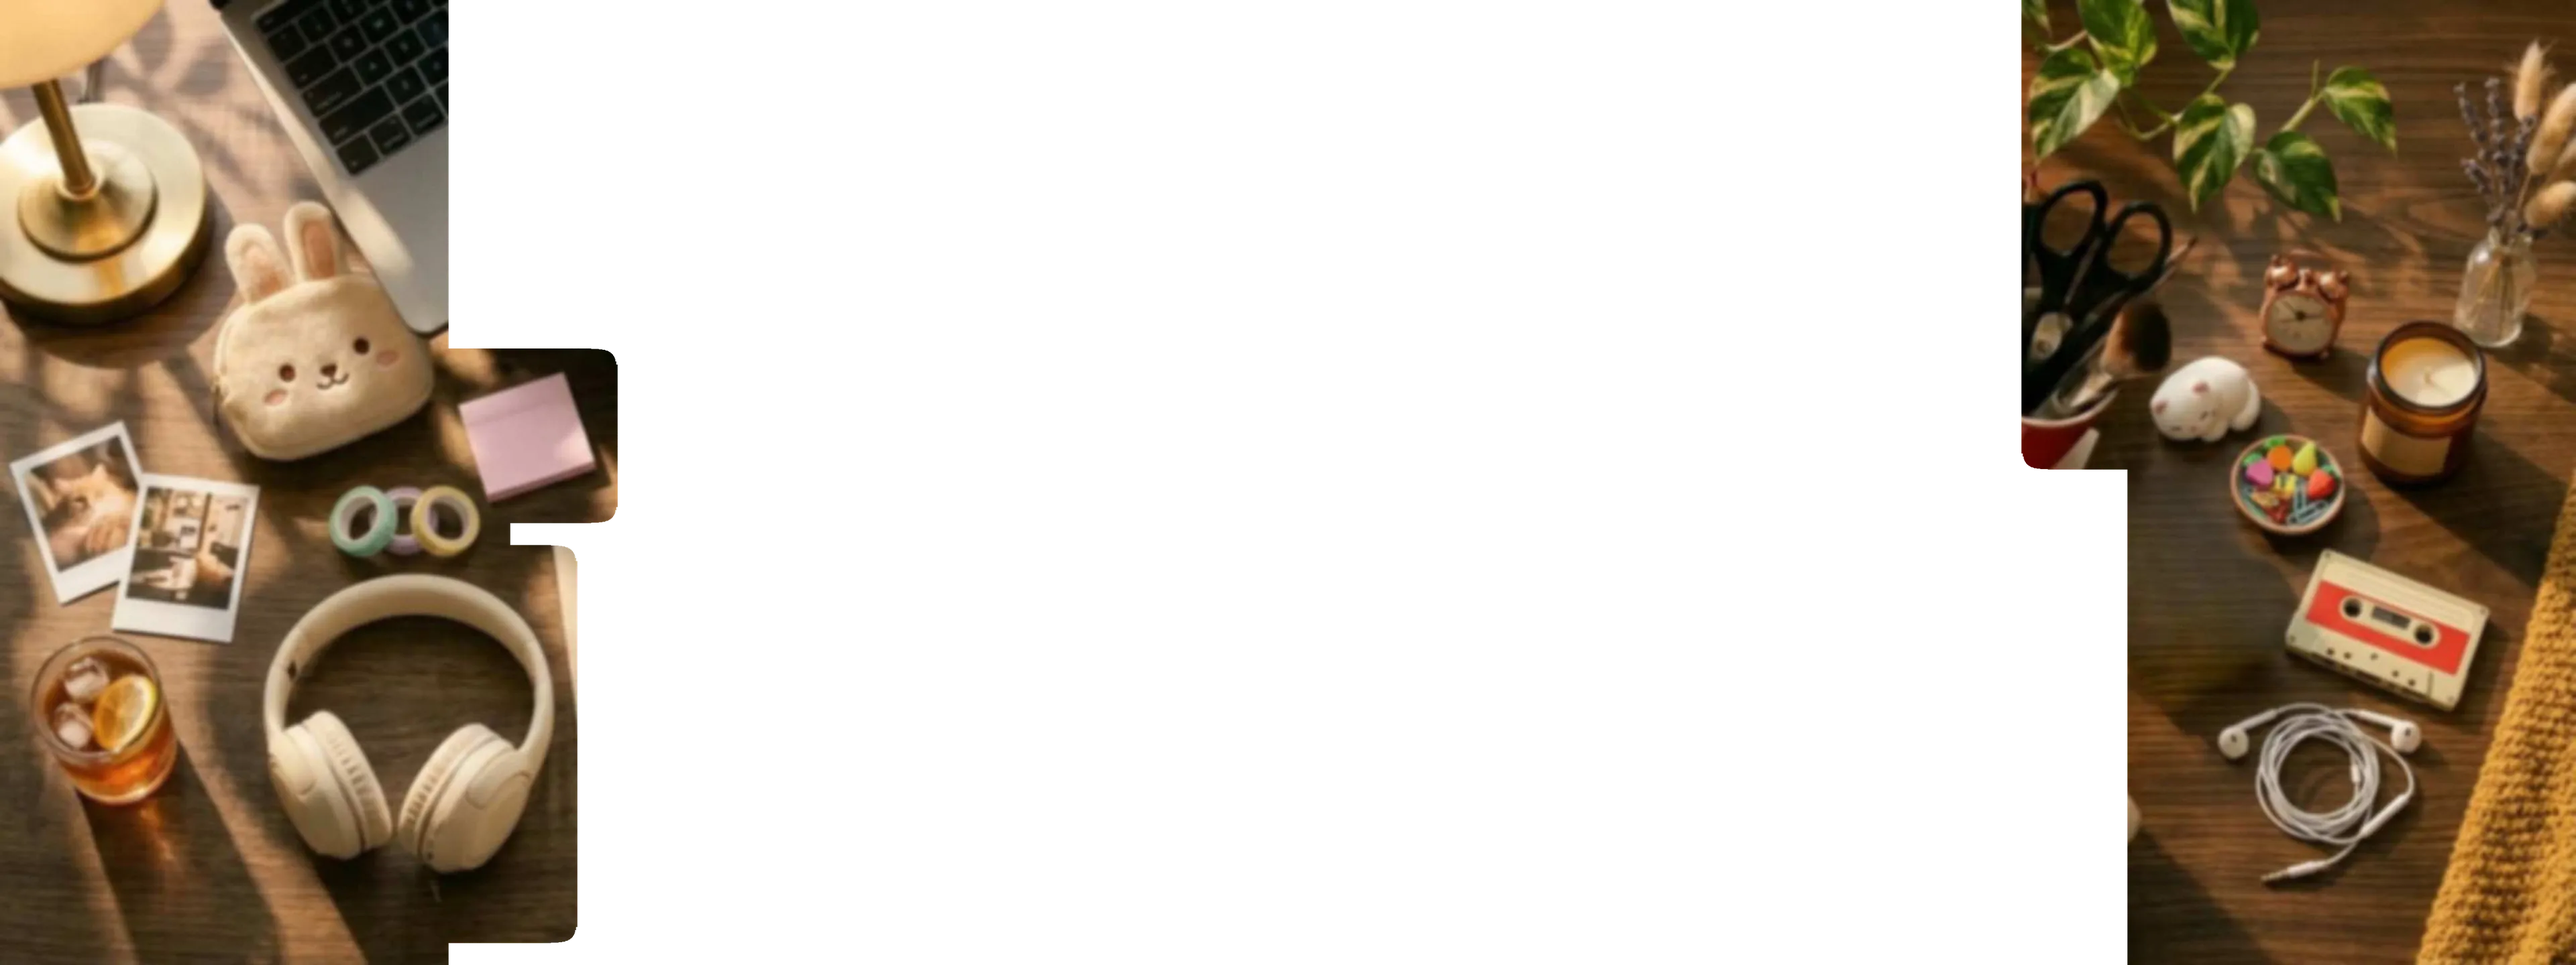
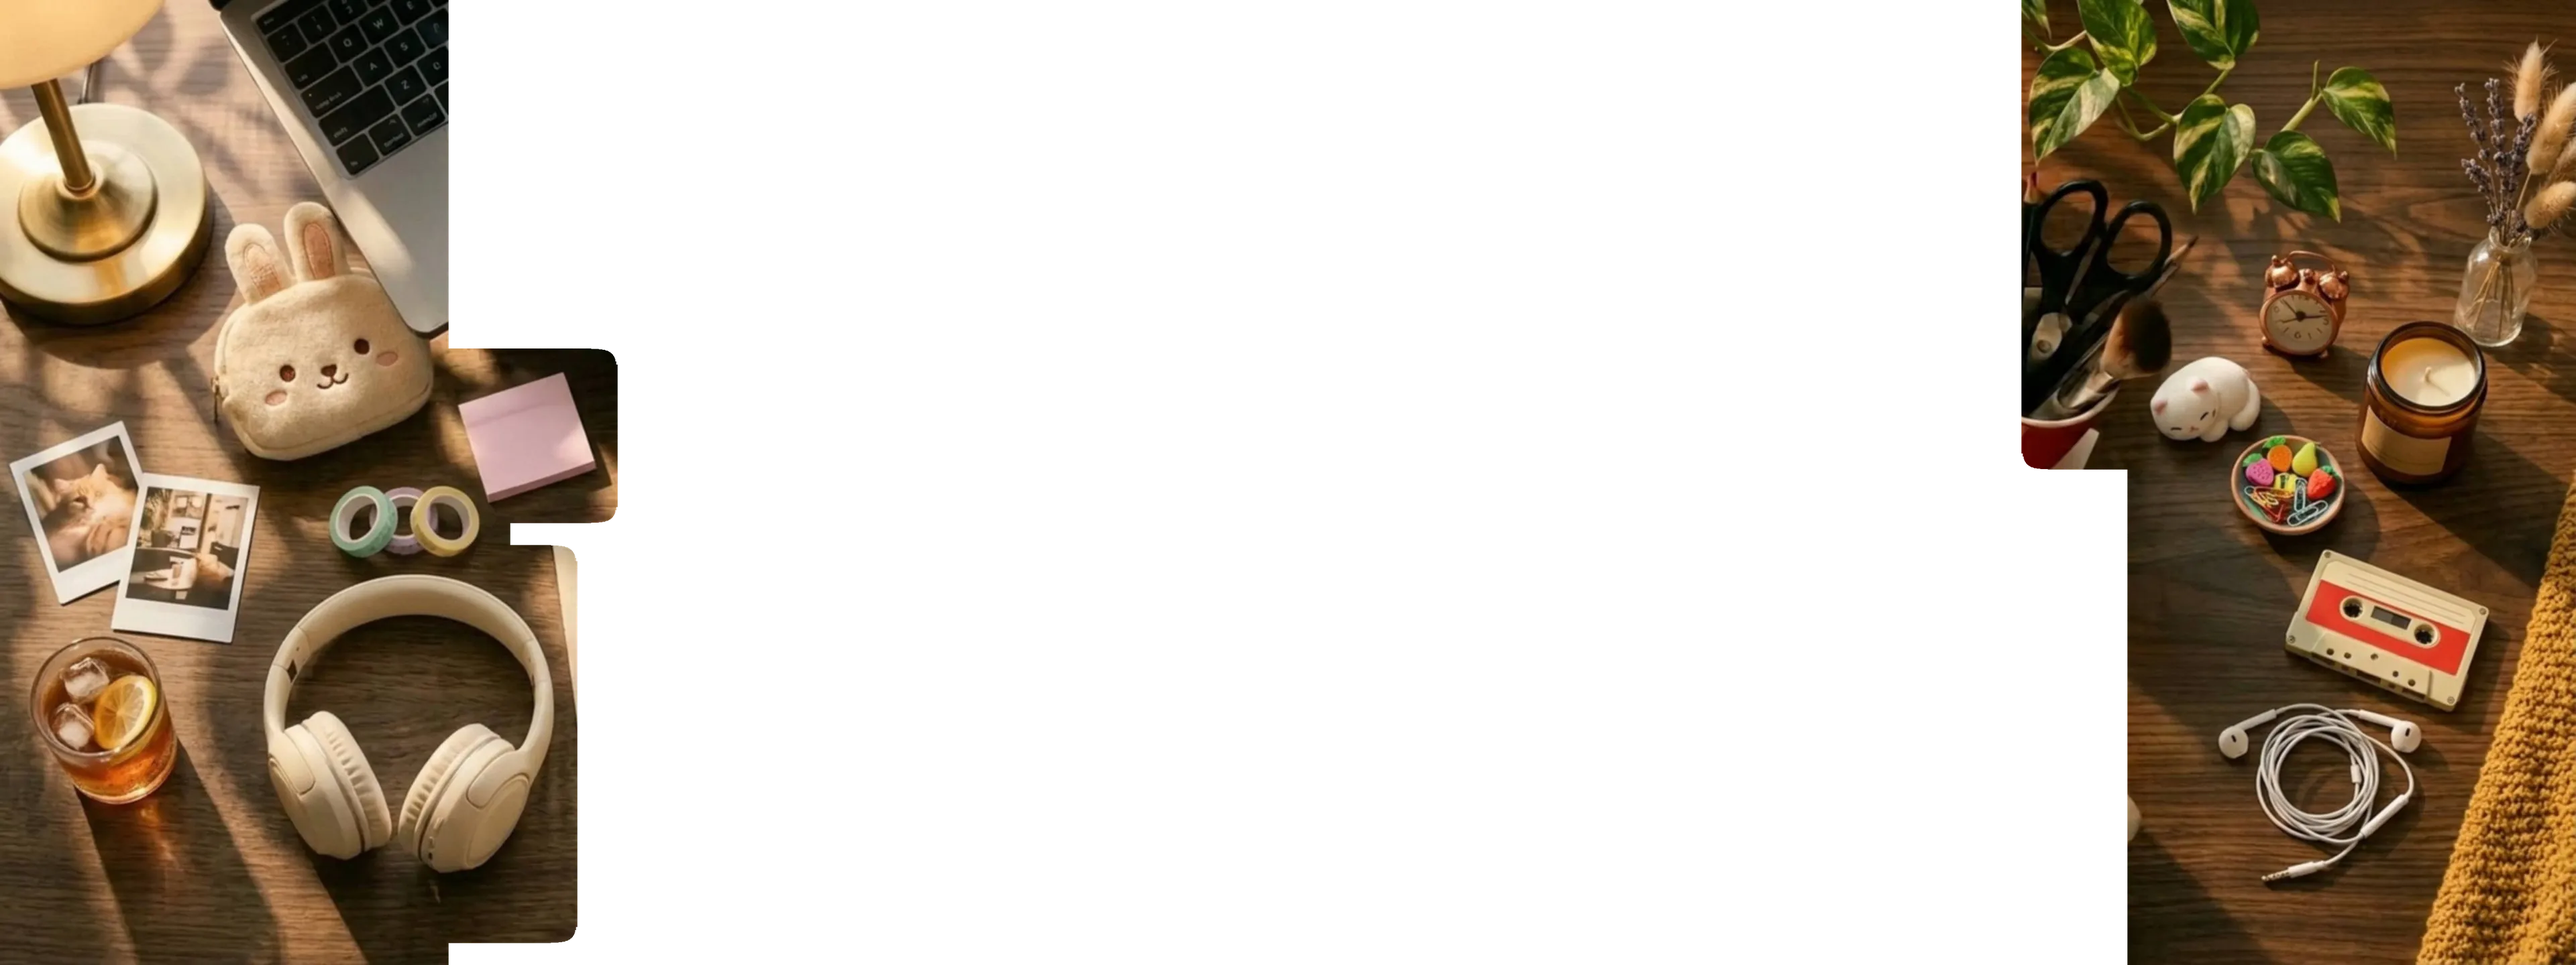
Hero: Andrew's new right-side desk, a side-blur slider, the ended film as a picture
- The extended desk uses the second right-side take (no notebooks) and is
  softened much less ("dont need to blur sides so much").
- A blur that grows toward the screen's left and right edges, over the film
  and the desk alike (.sideBlur: three backdrop-filter layers per side, the
  blurs compounding toward the edge). Two sliders in the dev panel - its
  strength at the edge and how far in it reaches - saved with the rest in
  bodyWallSettings.json (default 3px, 18% of the screen). Hero sliders no
  longer repack the body's doodles.
- Once the film has ended, its last frame as a picture (1920 jpg, or a 4K
  webp where the 4K film plays) takes the video's place: a background window
  can lose a video's picture, and the app switcher's preview showed no hero.
  The picture matches the decoded frame to 1.4/255 on average.

diff --git a/src/app/landing/VideoHero.tsx b/src/app/landing/VideoHero.tsx
@@ -12,7 +12,7 @@
 // rest, about a second after the book has landed open (drawFrom), mapped
 // onto the last frame's pages.
 
-import { useEffect, useRef, useState } from "react";
+import { useEffect, useRef, useState, type CSSProperties } from "react";
 import type { LandingSpread } from "./spreads";
 import { Wordmark } from "./Wordmark";
 import { HAND_FONT_CLASSES } from "./handFonts";
@@ -26,6 +26,10 @@ import styles from "./landing.module.css";
  *  one outright, as asked for. */
 const LAYOUT_FADE = 1.2;
 
+/** The blur at the screen's sides (.sideBlur): each side is this many
+ *  layers, each reaching further in, so the blur grows toward the edge. */
+const SIDE_BLUR_LAYERS = [1, 2, 3];
+
 export function VideoHero() {
   const hero = useRef<HTMLElement>(null);
   const video = useRef<HTMLVideoElement>(null);
@@ -35,6 +39,10 @@ export function VideoHero() {
   const [still, setStill] = useState(false);
   /** The clip has reached the frame the drawing is laid on. */
   const [resting, setResting] = useState(false);
+  /** The clip has ended, and its last frame as a picture has loaded. */
+  const [ended, setEnded] = useState(false);
+  const [lastReady, setLastReady] = useState(false);
+  const frozen = still || (ended && lastReady);
 
   useEffect(() => {
     const v = video.current;
@@ -62,7 +70,11 @@ export function VideoHero() {
       setResting(true);
       loop.start(now() + LAYOUT_FADE);
     };
-    v.addEventListener("ended", begin);
+    const onEnded = () => {
+      setEnded(true);
+      begin();
+    };
+    v.addEventListener("ended", onEnded);
 
     // The loose sheets' drawings go under the book as it opens over them:
     // each is clipped to where the book is in the frame on screen.
@@ -161,7 +173,7 @@ export function VideoHero() {
       cancelAnimationFrame(raf);
       io.disconnect();
       document.removeEventListener("visibilitychange", onVisibility);
-      v.removeEventListener("ended", begin);
+      v.removeEventListener("ended", onEnded);
       cleanup();
     };
   }, []);
@@ -183,18 +195,34 @@ export function VideoHero() {
           playsInline
           preload="auto"
           disableRemotePlayback
-          style={{ visibility: still ? "hidden" : "visible" }}
+          style={{ visibility: frozen ? "hidden" : "visible" }}
         >
           {/* The 4K film only where the screen has the pixels for it; the
               browser takes the first source whose media matches. */}
           <source src={HERO_VIDEO.src4k} type="video/mp4" media={HERO_VIDEO.media4k} />
           <source src={HERO_VIDEO.src} type="video/mp4" />
         </video>
-        {still && (
-          // The resting frame, for reduced motion - the page is drawn on it
-          // without the clip ever playing.
-          // eslint-disable-next-line @next/next/no-img-element
-          <img className={styles.videoFrame} src={HERO_VIDEO.last} alt="" />
+        {(still || ended) && (
+          // The resting frame as a picture. For reduced motion the page is
+          // drawn on it without the clip ever playing; otherwise it takes the
+          // ended clip's place once loaded, so nothing rests on the video: a
+          // window in the background can lose a video's picture, and the app
+          // switcher's preview showed no hero (Andrew, 2026-10-02).
+          <picture>
+            <source srcSet={HERO_VIDEO.last4k} media={HERO_VIDEO.media4k} type="image/webp" />
+            <img
+              className={styles.videoFrame}
+              src={HERO_VIDEO.last}
+              alt=""
+              style={{ visibility: frozen ? "visible" : "hidden" }}
+              onLoad={(e) => {
+                void e.currentTarget
+                  .decode()
+                  .catch(() => {})
+                  .then(() => setLastReady(true));
+              }}
+            />
+          </picture>
         )}
         <canvas
           ref={overlay}
@@ -231,6 +259,17 @@ export function VideoHero() {
           );
         })}
       </div>
+      {/* The blur toward the screen's sides - see .sideBlur. */}
+      {(["left", "right"] as const).map((side) =>
+        SIDE_BLUR_LAYERS.map((k) => (
+          <div
+            key={`${side}${k}`}
+            className={`${styles.sideBlur} ${side === "left" ? styles.sideBlurLeft : styles.sideBlurRight}`}
+            style={{ "--k": k } as CSSProperties}
+            aria-hidden="true"
+          />
+        )),
+      )}
       <div className={styles.videoScrim} aria-hidden="true" />
       <div className={styles.grain} aria-hidden="true" />
       <Wordmark className={styles.titleOverFilm} />

diff --git a/src/app/landing/landing.module.css b/src/app/landing/landing.module.css
@@ -475,8 +475,8 @@
 }
 
 /* The desk beyond the film's sides (Andrew, 2026-10-01): Flow's extension of
-   its resting frame, softened to its sharpness (handoff/veo/extend/
-   build_extend.py). Transparent where the film always covers it, so the
+   its resting frame, lightly softened (handoff/veo/extend/build_extend.py);
+   the blur toward the screen's sides is .sideBlur's. Transparent where the film always covers it, so the
    stage's first frame shows there while the film loads. The film's own
    edges fade into it (hero-video-mask.png): thinly along its sides, and
    wider where Flow's additions cross its edge, so they show whole. */
@@ -550,13 +550,44 @@
   background: linear-gradient(to bottom, rgba(16, 10, 6, 0.55) 0%, rgba(16, 10, 6, 0.28) 26%, rgba(16, 10, 6, 0) 46%);
 }
 
+/* A blur that grows toward the screen's left and right edges (Andrew,
+   2026-10-02: "i like idea of blur vignette but not nearly that much"), over
+   the film and the desk beyond it alike. --side-blur is the blur at the very
+   edge (px), --side-blur-w how far in it reaches (% of the screen), both from
+   bodyWallSettings.json. Each side is three layers (--k 1-3), each a third
+   of the blur and reaching k thirds of the way in: where they overlap the
+   blurs compound, so the blur grows smoothly toward the edge rather than
+   cross-fading one blurred copy over a sharp one. */
+.sideBlur {
+  position: absolute;
+  top: 0;
+  bottom: 0;
+  width: calc(var(--side-blur-w, 0) * 1%);
+  pointer-events: none;
+  -webkit-backdrop-filter: blur(calc(var(--side-blur, 0) * 0.577px));
+  backdrop-filter: blur(calc(var(--side-blur, 0) * 0.577px));
+  -webkit-mask-image: linear-gradient(var(--toward-edge), transparent calc(100% - var(--k) * 33.34%), #000 100%);
+  mask-image: linear-gradient(var(--toward-edge), transparent calc(100% - var(--k) * 33.34%), #000 100%);
+}
+
+.sideBlurLeft {
+  left: 0;
+  --toward-edge: to left;
+}
+
+.sideBlurRight {
+  right: 0;
+  --toward-edge: to right;
+}
+
 /* Portrait: the spread fills the width. From heroVideo.ts, in the 4K frame:
    SPREAD_WIDTH 1840 of 3840 across, SPREAD_CENTRE at 1933 x 1248 (50.34%,
    57.78%). */
 @media (max-aspect-ratio: 1/1) {
   /* Upright: the film is narrower than the screen's height allows anyway,
      its sides cropped; no extended desk, and the film's edges unmasked. */
-  .videoExtend {
+  .videoExtend,
+  .sideBlur {
     display: none;
   }
   .videoFrame {

diff --git a/src/app/landing/BodyWallTuner.tsx b/src/app/landing/BodyWallTuner.tsx
@@ -19,6 +19,8 @@ const SLIDERS: Array<{ key: keyof BodyWallSettings; label: string; min: number; 
   { key: "size", label: "Doodle size", min: 0.4, max: 1.8, step: 0.05, unit: "x" },
   { key: "density", label: "How many", min: 0.05, max: 2, step: 0.05, unit: "x" },
   { key: "ink", label: "Ink strength", min: 0.05, max: 1, step: 0.01, unit: "" },
+  { key: "sideBlur", label: "Hero side blur, at the edge", min: 0, max: 16, step: 0.5, unit: "px" },
+  { key: "sideBlurWidth", label: "Hero side blur, reaches in", min: 0, max: 40, step: 1, unit: "% of screen" },
 ];
 
 export function BodyWallTuner() {
@@ -33,6 +35,8 @@ export function BodyWallTuner() {
     const page = document.querySelector("main")?.parentElement;
     page?.style.setProperty("--peek", String(next.peekDesktop));
     page?.style.setProperty("--peek-phone", String(next.peekMobile));
+    page?.style.setProperty("--side-blur", String(next.sideBlur));
+    page?.style.setProperty("--side-blur-w", String(next.sideBlurWidth));
     setMessage(null);
   };
   const save = async () => {
@@ -62,7 +66,7 @@ export function BodyWallTuner() {
       }}
     >
       <div style={{ display: "flex", alignItems: "center", gap: 8 }}>
-        <strong style={{ flex: 1 }}>Body doodles (dev)</strong>
+        <strong style={{ flex: 1 }}>Landing tuning (dev)</strong>
         <button type="button" onClick={() => setOpen((o) => !o)} style={btn}>
           {open ? "Hide" : "Tune"}
         </button>

diff --git a/src/app/landing/Landing.tsx b/src/app/landing/Landing.tsx
@@ -46,8 +46,16 @@ export function Landing({ signedIn, hero = "video" }: { signedIn: boolean; hero?
   return (
     <div
       className={`${styles.page} ${script.variable} ${sans.variable}`}
-      // How much of the section below the hero shows on opening (bodyWall.ts).
-      style={{ "--peek": BODY_WALL_DEFAULTS.peekDesktop, "--peek-phone": BODY_WALL_DEFAULTS.peekMobile } as CSSProperties}
+      // How much of the section below the hero shows on opening, and the
+      // hero's side blur (bodyWall.ts).
+      style={
+        {
+          "--peek": BODY_WALL_DEFAULTS.peekDesktop,
+          "--peek-phone": BODY_WALL_DEFAULTS.peekMobile,
+          "--side-blur": BODY_WALL_DEFAULTS.sideBlur,
+          "--side-blur-w": BODY_WALL_DEFAULTS.sideBlurWidth,
+        } as CSSProperties
+      }
     >
       <SiteHeader signedIn={signedIn} />
 

diff --git a/src/app/landing/video/heroVideo.ts b/src/app/landing/video/heroVideo.ts
@@ -48,8 +48,11 @@ export const HERO_VIDEO = {
   media4k: "(min-width: 1450px) and (min-resolution: 2dppx), (min-width: 1930px) and (min-resolution: 1.5dppx), (min-width: 2900px)",
   /** Shown while the clip loads, and where it begins. */
   first: "/landing/hero-open-first.jpg",
-  /** The resting frame: shown instead of the clip for reduced motion. */
+  /** The resting frame: shown instead of the clip for reduced motion, and
+   *  in its place once it has ended (VideoHero) - with last4k where the 4K
+   *  film plays (media4k), the frame decoded from it. */
   last: "/landing/hero-open-last.jpg",
+  last4k: "/landing/hero-open-last-4k.webp",
   width: 3840,
   height: 2160,
   /** When the layouts appear, in the file's seconds: as it comes to rest

diff --git a/src/app/landing/BodyDoodles.tsx b/src/app/landing/BodyDoodles.tsx
@@ -129,7 +129,17 @@ export function BodyDoodles() {
       timer = window.setTimeout(() => void pack(), 250);
     });
     ro.observe(holder);
+    // Not for the sliders that are the hero's (its side blur).
+    const wallKey = () => {
+      const wall: Partial<ReturnType<typeof bodyWallSettings>> = { ...bodyWallSettings() };
+      delete wall.sideBlur;
+      delete wall.sideBlurWidth;
+      return JSON.stringify(wall);
+    };
+    let packedFor = wallKey();
     const off = onBodyWallSettings(() => {
+      if (wallKey() === packedFor) return;
+      packedFor = wallKey();
       window.clearTimeout(timer);
       timer = window.setTimeout(() => void pack(), 120);
     });

diff --git a/src/app/landing/bodyWall.ts b/src/app/landing/bodyWall.ts
@@ -44,6 +44,12 @@ export type BodyWallSettings = {
   /** The arrangement: a seed, or a new one each load. */
   seed: number;
   newEachLoad: boolean;
+  /** The hero's blur toward the screen's sides (.sideBlur in
+   *  landing.module.css): its strength at the very edge, CSS px, and how far
+   *  in it reaches, % of the screen's width. Here because these sliders are
+   *  the page's one toolbar. */
+  sideBlur: number;
+  sideBlurWidth: number;
 };
 
 export const BODY_WALL_DEFAULTS: BodyWallSettings = saved as BodyWallSettings;

diff --git a/src/app/dev/doodles/body/route.ts b/src/app/dev/doodles/body/route.ts
@@ -22,6 +22,8 @@ const RANGES: Record<string, [number, number]> = {
   density: [0.05, 2],
   ink: [0.05, 1],
   seed: [0, 1e9],
+  sideBlur: [0, 16],
+  sideBlurWidth: [0, 40],
 };
 
 export async function POST(request: Request) {
